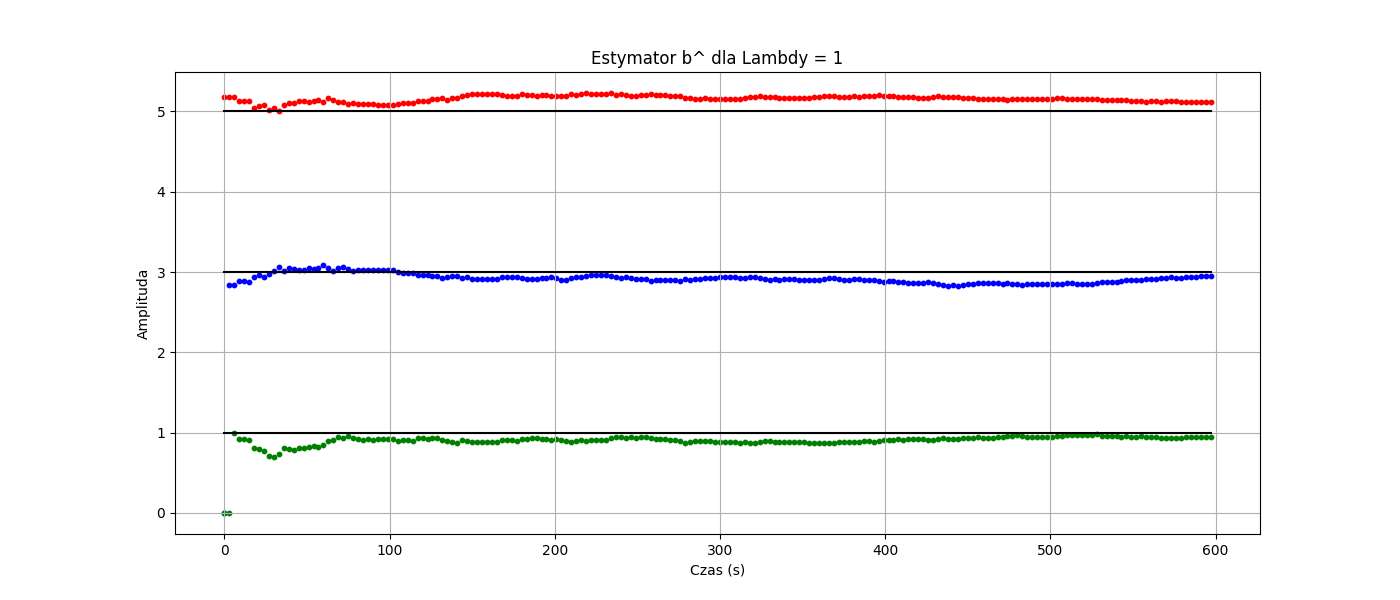
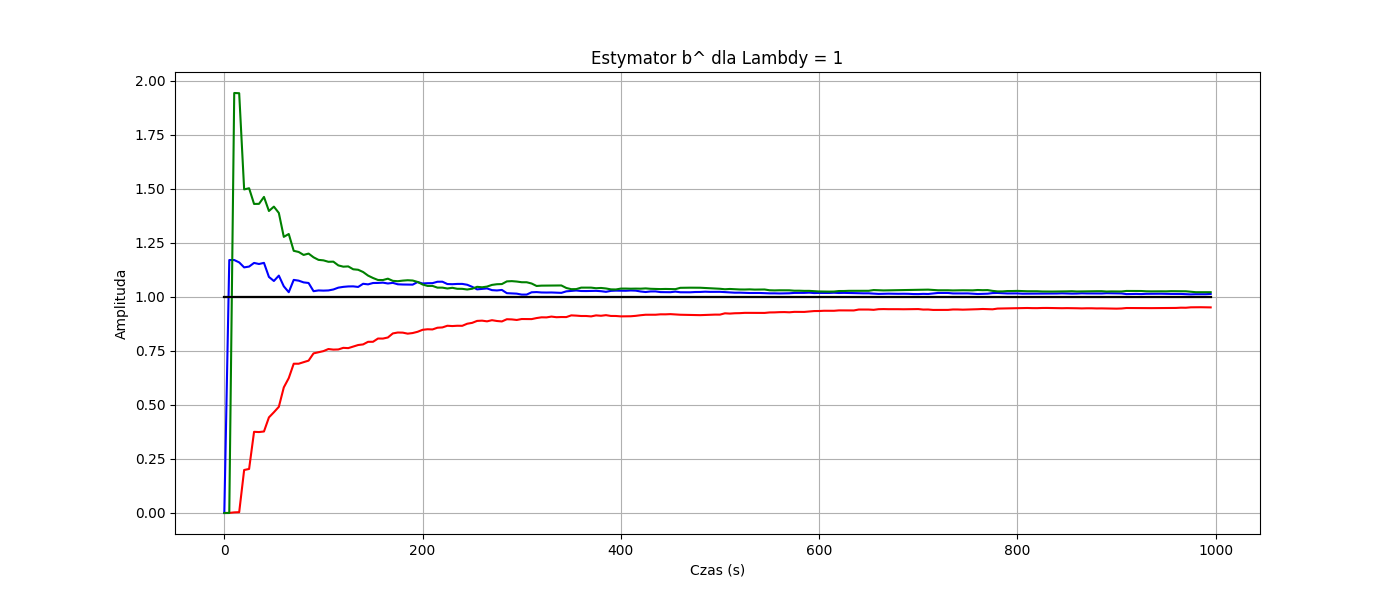
chyba zrobilam te zadania

diff --git a/adaptacyjne/projekt2/wave.py b/adaptacyjne/projekt2/wave.py
@@ -4,7 +4,7 @@ import random
 import os
 from matplotlib import cm
 
-C = 0.7 # 
+C = 0.5 # 
 images_folder = "images_test"
 
 # B_changed to funckja zmiennego b_true[1]
@@ -131,74 +131,49 @@ def simulation(N, b_true, Lambda):
     P_k = np.array([[100, 0, 0],
                     [0, 100, 0],
                     [0, 0, 100]])
-
-    b_estimated = np.zeros((3,N))
     
+    b_estimated = np.zeros((3,N))
     V_estimated = np.zeros(N)
     y_estimated = np.zeros(N)
-
     V_true = np.zeros(N) # prawdziwe wyjście z obiektu bez zakłócenia
     y_true = np.zeros(N) # prawdziwe wyjście z zakłóceniem
-
+    u_k = np.random.uniform(0, 3, N)
+    Phi = np.array([[u_k[0]],
+                    [0],
+                    [0]])
     # Tworzenie zakłócenia
     noise = [C *(random.random() + random.random() - 1) for _ in range(N)]
-    # Tworzenie danych przed pętlą 
-    # Dla [0]
-    u_calculated = np.zeros(N)
-    u_calculated[0] = (np.sin(2*np.pi/3 * 0) + 1.5)
-    Phi = np.array([[u_calculated[0]],
-                    [0],
-                    [0]])
-    V_true[0] = b_true[0]*u_calculated[0]
-    y_true[0] = V_true[0]  + noise[0]
-    new_P_k = 1/Lambda * (P_k - (np.dot(np.dot(np.dot(P_k,Phi),Phi.T),P_k))/ (Lambda + np.dot(np.dot(Phi.T, P_k),Phi)))
-    P_k = new_P_k
 
-    B_estimated = [ [0],
+    previous_b_est = [ [0],
                     [0],
                     [0]]
-    b_estimated[:,0] = (B_estimated + (y_true[0] - np.dot(Phi.T, B_estimated)) * np.dot(P_k,Phi)).reshape((3,)) 
 
-    # DLa [1]
-    u_calculated[1] = (np.sin(2*np.pi/3 * 1) + 1.5)/b_estimated[0, 0]
-    Phi = np.array([[u_calculated[1]],
-                    [u_calculated[0]],
-                    [0]])
-
-    V_true[1] = b_true[0]*u_calculated[1] + b_true[1]*u_calculated[0] 
-    y_true[1] =  V_true[1] + noise[1]
-    new_P_k = 1/Lambda * (P_k - (np.dot(np.dot(np.dot(P_k,Phi),Phi.T),P_k))/ (Lambda + np.dot(np.dot(Phi.T, P_k),Phi)))
-    P_k = new_P_k
-
-    B_estimated = [ [b_estimated[0, 0]],
-                    [b_estimated[1, 0]],
-                    [b_estimated[2, 0]]]
-    b_estimated[:,1] = (B_estimated + (y_true[1] - np.dot(Phi.T, B_estimated)) * np.dot(P_k,Phi)).reshape((3,)) 
-
-    for k in range(2, N):
-        u_calculated[k] = ((np.sin(2*np.pi/3 * k) + 1.5) -  (b_estimated[1, k-1]* u_calculated[k-1] + b_estimated[2, k-1]*u_calculated[k-2]))/b_estimated[0, k-1]
-        Phi = np.array([[u_calculated[k]],
-                        [u_calculated[k-1]],
-                        [u_calculated[k-2]]])
-
+    for k in range(N):
         # Wyliczamy nowe wyjście na podstawie oczekiwanego wejścia?? z b_true
-        V_true[k] =  (b_true[0]*u_calculated[k] + b_true[1]*u_calculated[k-1] + b_true[2]*u_calculated[k-2])
+        # V_true[k] = (b_true[0]*u_calculated[k] + b_true[1]*u_calculated[k-1] + b_true[2]*u_calculated[k-2])
+        V_true[k] = np.dot(Phi.T, b_true)
         y_true[k] = V_true[k] + noise[k]
 
         # Calculate P_k - macierz kowariancji P_k to P(k-1) a new_P_k to P(k)
-        new_P_k = 1/Lambda * (P_k - (np.dot(np.dot(np.dot(P_k,Phi),Phi.T),P_k))/ (Lambda + np.dot(np.dot(Phi.T, P_k),Phi)))
-        P_k = new_P_k
+        P_k = 1/Lambda * (P_k - (np.dot(np.dot(np.dot(P_k,Phi),Phi.T),P_k))/ (Lambda + np.dot(np.dot(Phi.T, P_k),Phi)))
 
         # Calculate b_estimated 
-        B_estimated = [[b_estimated[0, k-1]],
-                       [b_estimated[1, k-1]],
-                       [b_estimated[2, k-1]]]
-        b_estimated[:,k] = (B_estimated + (y_true[k] - np.dot(Phi.T, B_estimated)) * np.dot(P_k,Phi)).reshape((3,)) 
+        if k > 0:
+            previous_b_est = [[b_estimated[0, k-1]],
+                        [b_estimated[1, k-1]],
+                        [b_estimated[2, k-1]]]
+            b_estimated[:,k] = (previous_b_est + (y_true[k] - np.dot(Phi.T, previous_b_est)) * np.dot(P_k,Phi)).reshape((3,)) 
             
-        V_estimated[k] =  (b_estimated[0, k]*u_calculated[k] + b_estimated[1, k]*u_calculated[k-1] + b_estimated[2, k]*u_calculated[k-2])
+        #V_estimated[k] =  (b_estimated[0, k]*u_calculated[k] + b_estimated[1, k]*u_calculated[k-1] + b_estimated[2, k]*u_calculated[k-2])
+        V_estimated[k] = np.dot(Phi.T, b_estimated[:,k])
         y_estimated[k] = V_estimated[k] + noise[k]
+        if k < N - 1:
+                Phi[2,0] = Phi[1,0]
+                Phi[1,0] = Phi[0,0]
+                Phi[0,0] = u_k[k+1]
+                    
 
-    print(f"B = {b_estimated[:,49]}")    
+    print(f"B = {b_estimated[:,N-1]}")    
     return V_true, V_estimated, y_true, y_estimated, b_estimated
     
 
@@ -221,11 +196,11 @@ def image(t, b_true, Lambda):
     
     fig_est = plt.figure(figsize=(14, 6))
     ax_est = fig_est.add_subplot(111)
-    ax_est.scatter(t, b_estimated[0], c='r', marker="o", s=10, label="Estymowane b0 od Lambdy")  
+    ax_est.plot(t, b_estimated[0], c='r', label="Estymowane b0 od Lambdy")  #marker="o", s=10,
     ax_est.plot(t, [b_true[0] for _ in range(len(t))], c='black') 
-    ax_est.scatter(t, b_estimated[1], c='b', marker="o", s=10, label="Estymowane b1 od Lambdy")
+    ax_est.plot(t, b_estimated[1], c='b', label="Estymowane b1 od Lambdy")
     ax_est.plot(t, [b_true[1] for _ in range(len(t))], c='black') 
-    ax_est.scatter(t, b_estimated[2], c='g', marker="o", s=10, label="Estymowane b2 od Lambdy") 
+    ax_est.plot(t, b_estimated[2], c='g', label="Estymowane b2 od Lambdy") 
     ax_est.plot(t, [b_true[2] for _ in range(len(t))], c='black') 
     ax_est.set_title(f'Estymator b^ dla Lambdy = {Lambda}')
     # ax_est.legend(loc='')
@@ -242,12 +217,12 @@ def main():
     period = 1 / frequency
     amplitude = 1.0  # Amplitude of the signal
 
-    duration = 600.0  # Duration of the u_k(seconds)
+    duration = 1000.0  # Duration of the u_k(seconds)
     N = 200 # Amount of samples
     t = np.linspace(0, duration, N, endpoint=False) # <class 'numpy.ndarray'>
     # u_k = np.random.uniform(0, 3,  N)
     Lambda = [1, 0.99, 0.95, 0.9, 0.8]
-    b_true = [5, 3, 1]
+    b_true = [1, 1, 1]
     
     B_true = ((4 * amplitude) / period) * np.abs(((t - (period * 0.25))%period) - (period * 0.5)) - amplitude + b_true[1]
 
@@ -255,8 +230,8 @@ def main():
     image(t, b_true, Lambda[0])
 
     # Part II
-    for i in range(len(Lambda)):
-        image2(t, b_true, B_true, Lambda[i])
+    # for i in range(len(Lambda)):
+    #     image2(t, b_true, B_true, Lambda[i])
     
 if __name__ == "__main__":
     main()

diff --git a/adaptacyjne/projekt2/zad2.py b/adaptacyjne/projekt2/zad2.py
@@ -1,0 +1,114 @@
+import matplotlib.pyplot as plt
+import numpy as np
+import random
+import os
+from matplotlib import cm
+
+C = 0.5 
+images_folder = "images_test2"
+
+
+def simulation(N, b_true, Lambda):    
+    P_k = np.array([[100, 0, 0],
+                    [0, 100, 0],
+                    [0, 0, 100]])
+    print(f"lambda = {Lambda}")
+    b_estimated = np.zeros((3,N))
+    V_estimated = np.zeros(N)
+    y_estimated = np.zeros(N)
+    V_true = np.zeros(N) # prawdziwe wyjście z obiektu bez zakłócenia
+    y_true = np.zeros(N) # prawdziwe wyjście z zakłóceniem
+    u_k = np.random.uniform(0, 3, N)
+    Phi = np.array([[u_k[0]],
+                    [0],
+                    [0]])
+    # Tworzenie zakłócenia
+    noise = [C *(random.random() + random.random() - 1) for _ in range(N)]
+
+    previous_b_est = [ [0],
+                    [0],
+                    [0]]
+
+    for k in range(N):
+        # Wyliczamy nowe wyjście na podstawie oczekiwanego wejścia?? z b_true
+        # V_true[k] = (b_true[0]*u_calculated[k] + b_true[1]*u_calculated[k-1] + b_true[2]*u_calculated[k-2])
+        V_true[k] = np.dot(Phi.T, b_true[:,k])
+        y_true[k] = V_true[k] + noise[k]
+
+        # Calculate P_k - macierz kowariancji P_k to P(k-1) a new_P_k to P(k)
+        P_k = 1/Lambda * (P_k - (np.dot(np.dot(np.dot(P_k,Phi),Phi.T),P_k))/ (Lambda + np.dot(np.dot(Phi.T, P_k),Phi)))
+
+        # Calculate b_estimated 
+        if k > 0:
+            previous_b_est = [[b_estimated[0, k-1]],
+                        [b_estimated[1, k-1]],
+                        [b_estimated[2, k-1]]]
+            b_estimated[:,k] = (previous_b_est + (y_true[k] - np.dot(Phi.T, previous_b_est)) * np.dot(P_k,Phi)).reshape((3,)) 
+            
+        #V_estimated[k] =  (b_estimated[0, k]*u_calculated[k] + b_estimated[1, k]*u_calculated[k-1] + b_estimated[2, k]*u_calculated[k-2])
+        V_estimated[k] = np.dot(Phi.T, b_estimated[:,k])
+        y_estimated[k] = V_estimated[k] + noise[k]
+        if k < N - 1:
+                Phi[2,0] = Phi[1,0]
+                Phi[1,0] = Phi[0,0]
+                Phi[0,0] = u_k[k+1]
+                    
+
+    print(f"B = {b_estimated[:,N-1]}")    
+    return V_true, V_estimated, y_true, y_estimated, b_estimated
+    
+
+def zad2(t, b_true, Lambda):
+    V_true, V_estimated, y_true, y_estimated, b_estimated = simulation(len(t), b_true, Lambda)
+    
+    fig_est = plt.figure(figsize=(14, 6))
+    ax_est = fig_est.add_subplot(111)
+    ax_est.plot(t, b_estimated[0], c='r', label="Estymowane b0 od Lambdy")  #marker="o", s=10,
+    ax_est.plot(t, b_true[0], c='black') 
+    ax_est.plot(t, b_estimated[1], c='b', label="Estymowane b1 od Lambdy")
+    ax_est.plot(t, b_true[1], c='black') 
+    ax_est.plot(t, b_estimated[2], c='g', label="Estymowane b2 od Lambdy") 
+    ax_est.plot(t, b_true[2], c='black') 
+    ax_est.set_title(f'Estymator b^ dla Lambdy = {Lambda}')
+    # ax_est.legend(loc='')
+    ax_est.set_xlabel('Czas (s)')
+    ax_est.set_ylabel('Amplituda')
+    ax_est.grid(True)
+    # ax_est.set_ylim(0, 5)
+    fig_est.savefig(os.path.join(os.path.dirname(__file__), images_folder, f"B_estymowane_lambda={Lambda}.png"))
+
+
+def main():
+    # triangular function parameters 
+    frequency = 0.01  # Frequency of the signal (cycles per second)
+    period = 1 / frequency
+    amplitude = 1.0  # Amplitude of the signal
+
+    duration = 1000.0  # Duration of the u_k(seconds)
+    N = 1000 # Amount of samples
+    t = np.linspace(0, duration, N, endpoint=False) # <class 'numpy.ndarray'>
+    # u_k = np.random.uniform(0, 3,  N)
+    Lambda = [1, 0.98, 0.95, 0.9, 0.8]
+    param0 = [1.0 for _ in range(len(t))]
+    param1 = [2.0 for _ in range(len(t))]
+    param2 = [3.0 for _ in range(len(t))]
+    b_true =  np.array([param0, param1, param2])
+# =================================================================================
+    amplituda_min = 1
+    amplituda_max = 1.2
+    czestotliwosc = 0.005  # Dla przykładu, możesz dostosować według potrzeb
+    czas_trwania = duration
+    ilosc_probek = N
+    # Generowanie czasu i wartości funkcji prostokątnej
+    czas = np.linspace(0, czas_trwania, ilosc_probek)
+    funkcja_prostokatna = (amplituda_min + (amplituda_max - amplituda_min) / 2 * np.sign(np.sin(2 * np.pi * czestotliwosc * czas)))
+    # print(funkcja_prostokatna)
+# ================================================================================
+    # b_true[0] = [float(funkcja_prostokatna[i]) for i in range(len(t))]
+    b_true[0] = funkcja_prostokatna
+    # print(b_true[0])
+    zad2(t, b_true,  0.95)
+
+    
+if __name__ == "__main__":
+    main()

diff --git a/adaptacyjne/projekt2/test.py b/adaptacyjne/projekt2/test.py
@@ -1,0 +1,23 @@
+import numpy as np
+import matplotlib.pyplot as plt
+
+# Parametry funkcji prostokątnej
+# od 1.5 do 2.5
+amplituda_min = 1
+amplituda_max = 1.2
+czestotliwosc = 0.005  # Dla przykładu, możesz dostosować według potrzeb
+czas_trwania = 1000
+ilosc_probek = 500
+
+# Generowanie czasu i wartości funkcji prostokątnej
+czas = np.linspace(0, czas_trwania, ilosc_probek)
+funkcja_prostokatna = (amplituda_min + (amplituda_max - amplituda_min) / 2 * np.sign(np.sin(2 * np.pi * czestotliwosc * czas)))
+
+# Rysowanie funkcji prostokątnej
+plt.plot(czas, funkcja_prostokatna)
+plt.title('Funkcja Prostokątna')
+plt.xlabel('Czas')
+plt.ylabel('Amplituda')
+plt.grid(True)
+plt.savefig('wykres.png')  
+plt.show()
